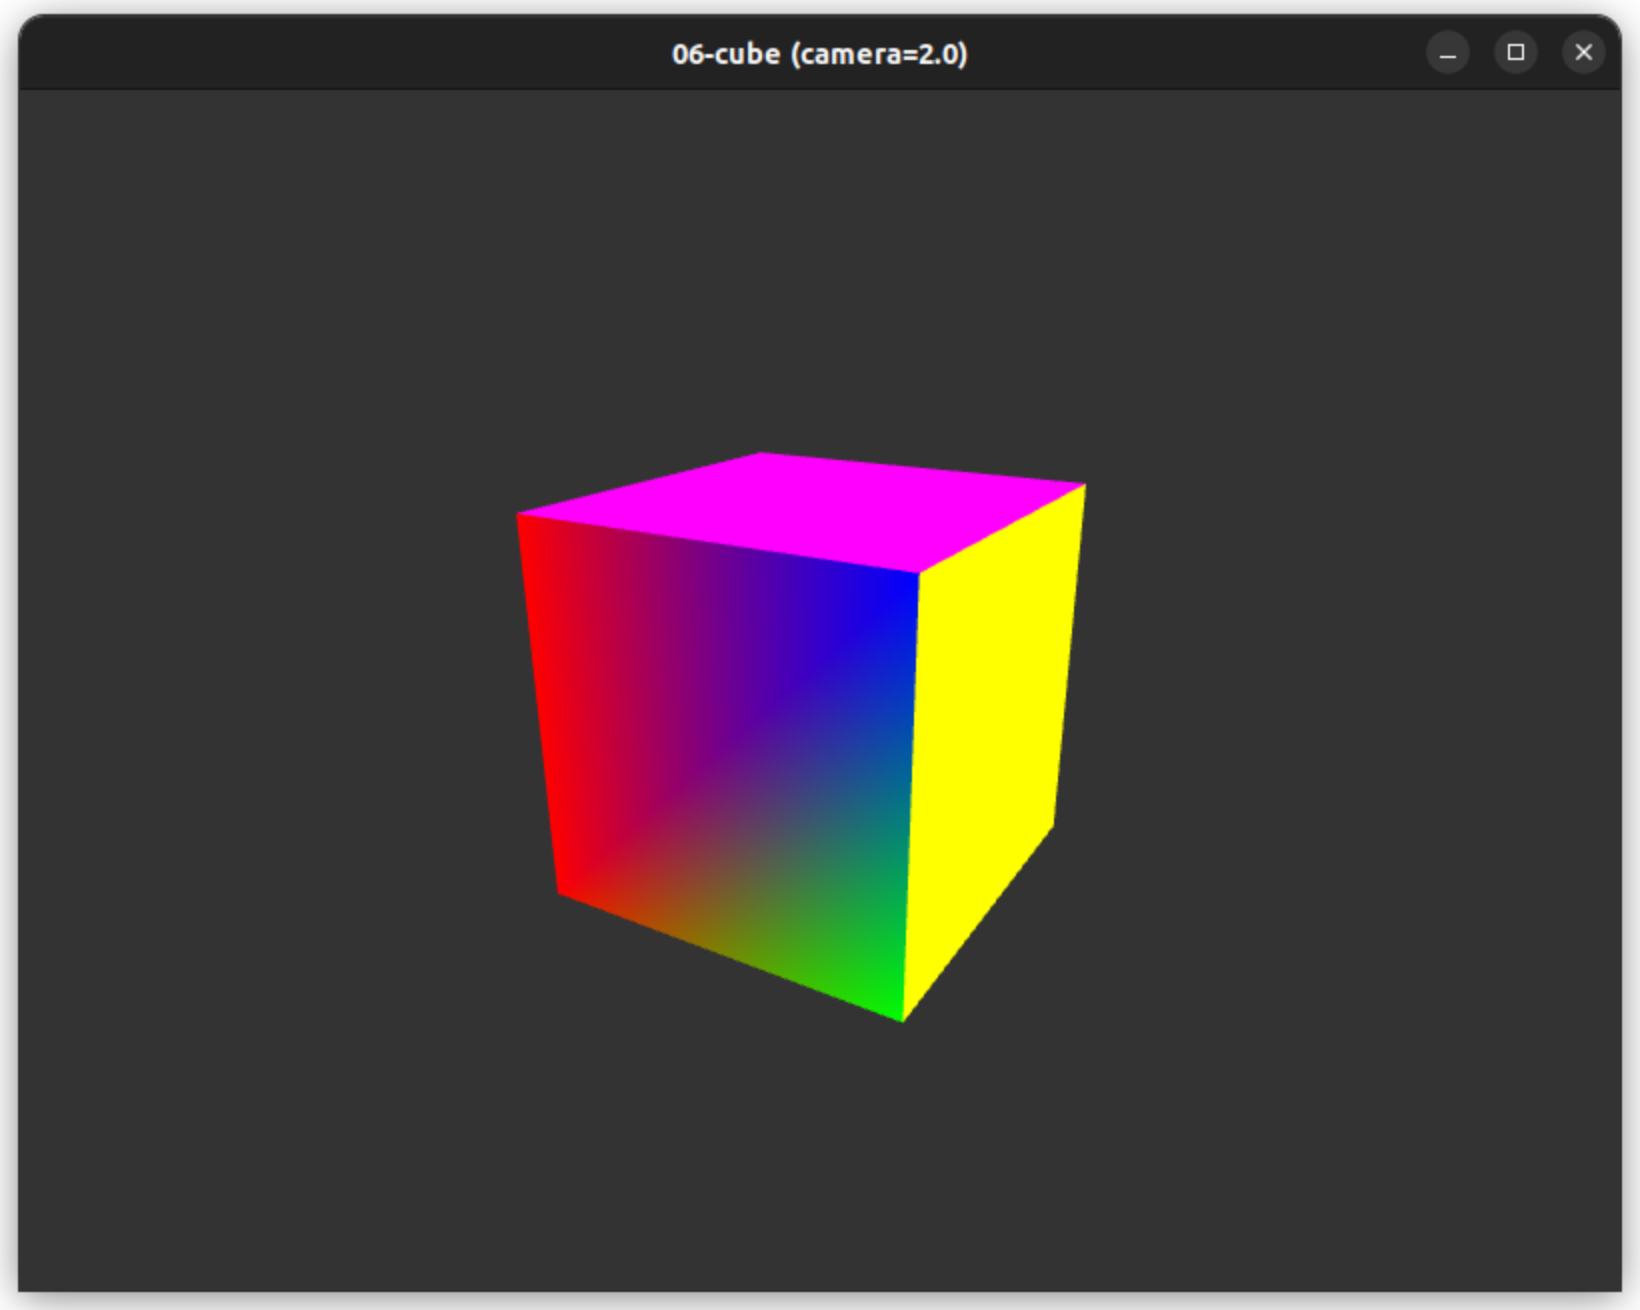
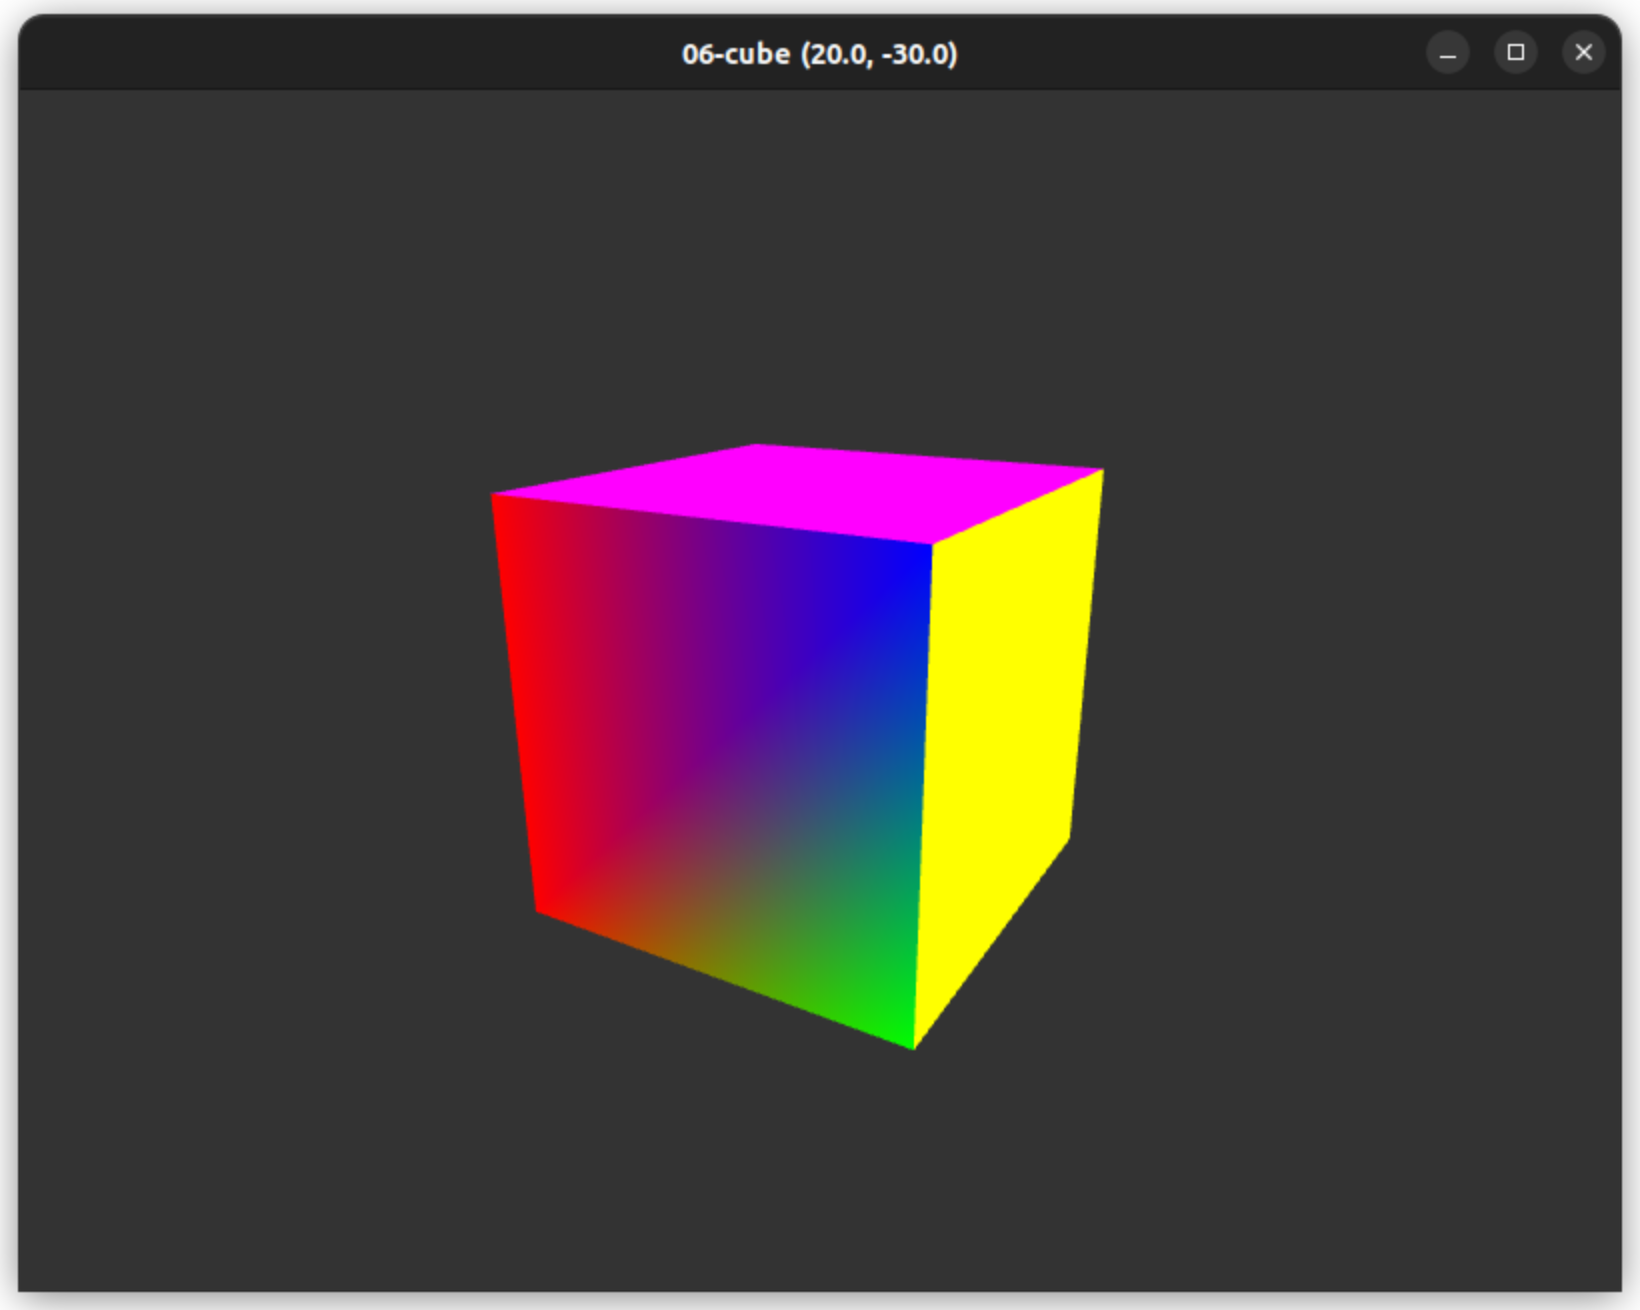
Set initial rotation of cube.

Changed region(s): [[0.2799, 0.3359, 0.6841, 0.8244], [0.4043, 0.0305, 0.5909, 0.0611]]

diff --git a/src/06-cube/cube.cpp b/src/06-cube/cube.cpp
@@ -11,7 +11,7 @@
 
 // Global variables
 static GLuint program{};
-static glm::vec2 rotate{};
+static glm::vec2 rotate{20.0f, -30.0f};
 
 static std::string window_title()
 {
@@ -146,8 +146,8 @@ static void render(GLFWwindow* window, double current_time)
 {
     // Build model matrix
     glm::mat4 model_matrix{1.0f};
-    model_matrix = glm::rotate(model_matrix, glm::radians(rotate.y), glm::vec3{0.0f, 1.0f, 0.0f});
     model_matrix = glm::rotate(model_matrix, glm::radians(rotate.x), glm::vec3{1.0f, 0.0f, 0.0f});
+    model_matrix = glm::rotate(model_matrix, glm::radians(rotate.y), glm::vec3{0.0f, 1.0f, 0.0f});
 
     // Build view matrix
     const glm::vec3 camera{0.0f, 0.0f, 5.0f};
